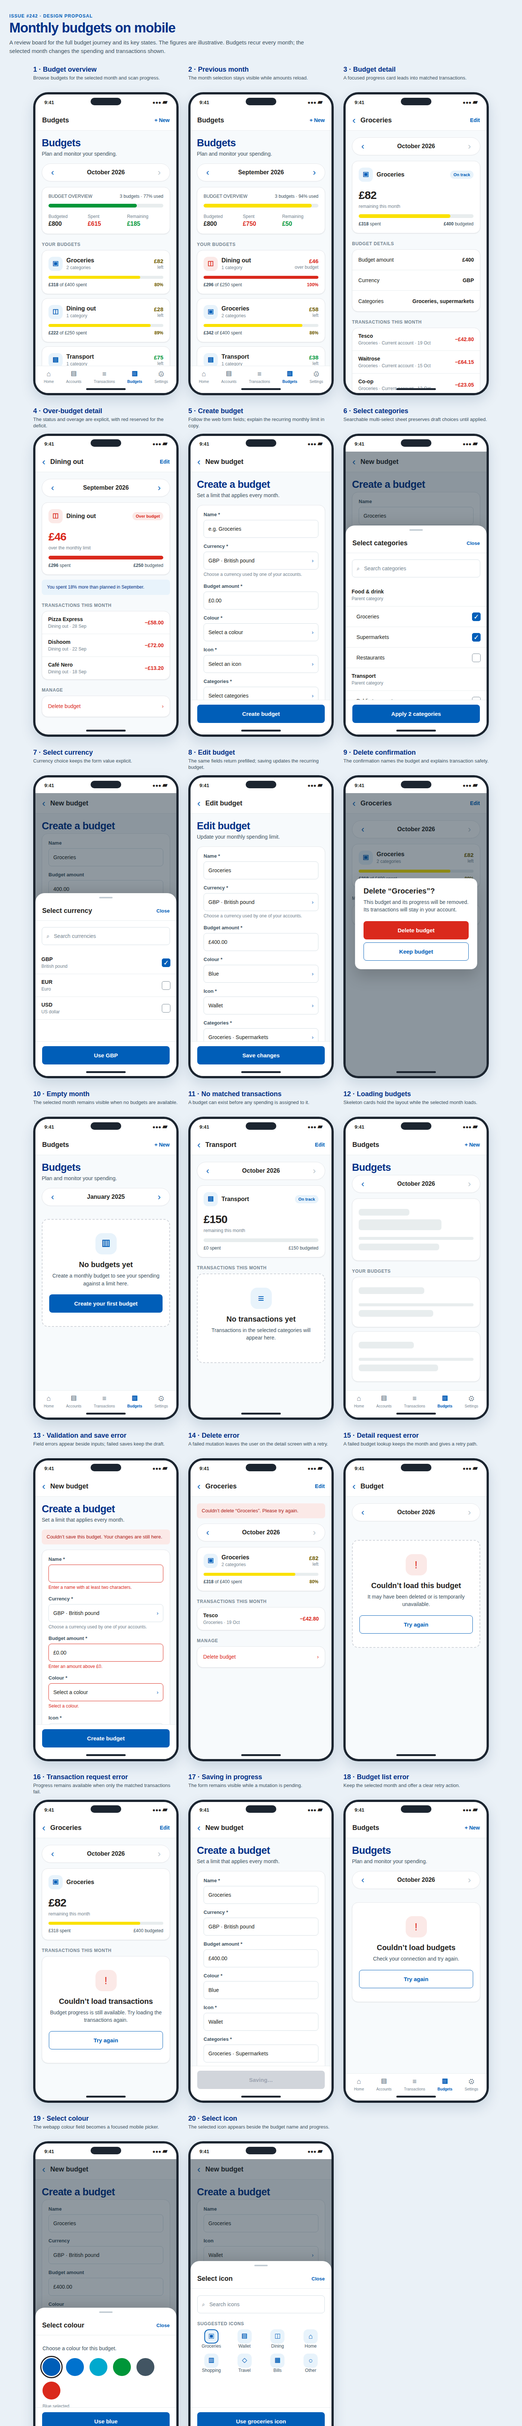
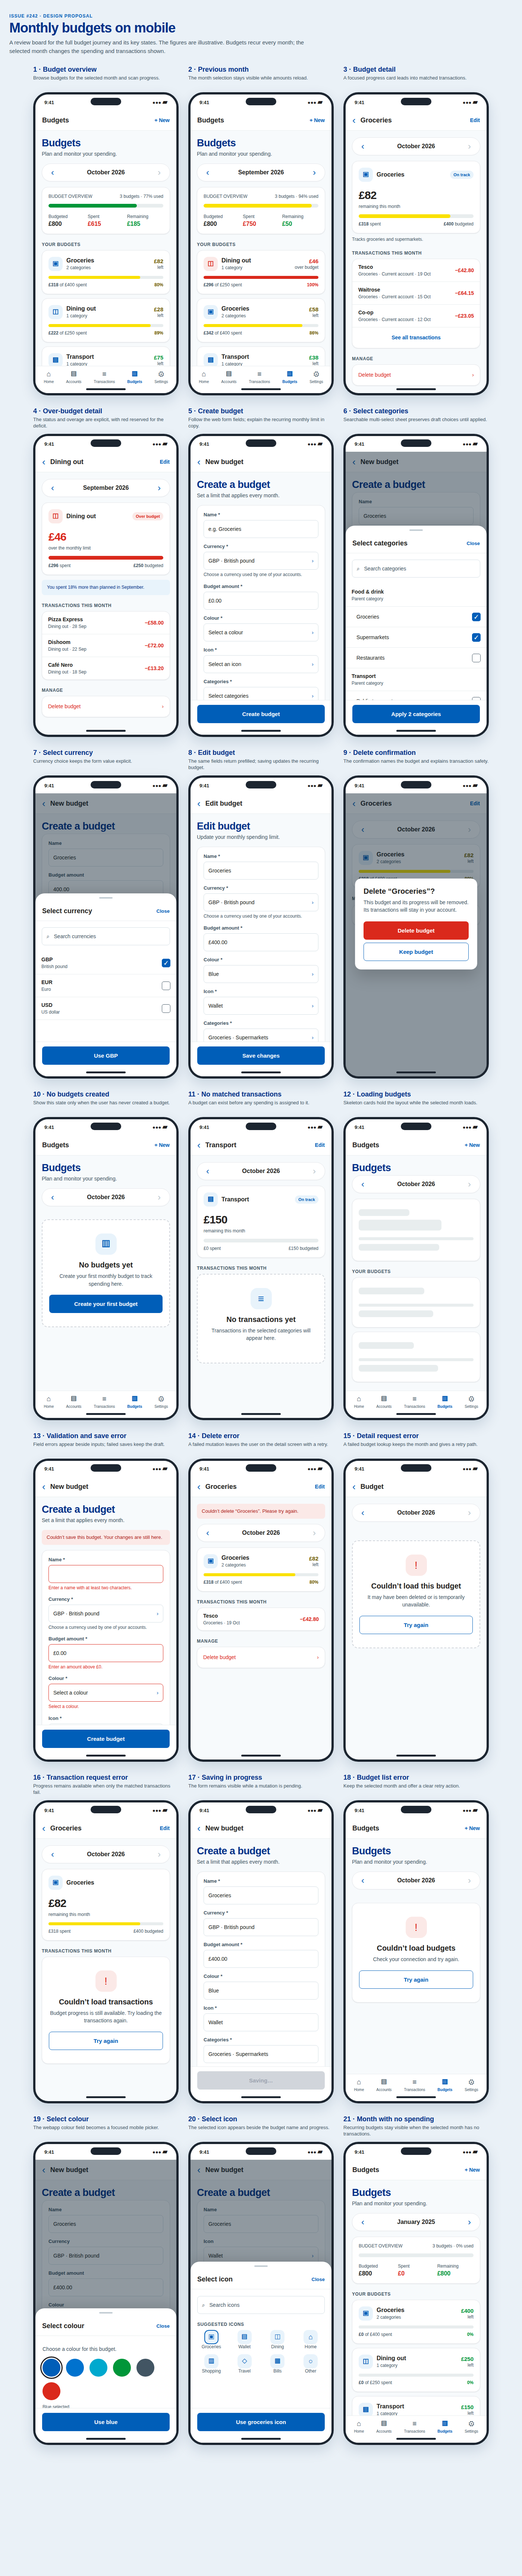
docs: address mobile budget mock review feedback

diff --git a/docs/designs/issue-242-mobile-budgets.md b/docs/designs/issue-242-mobile-budgets.md
@@ -1,6 +1,6 @@
 # Mobile budgets · issue #242
 
-[Open the visual board](./issue-242-mobile-budgets.html) or [PNG preview](./issue-242-mobile-budgets.png). This is a UI proposal for review before changing the mobile implementation. Amounts and merchants are illustrative.
+[Open the visual board](./issue-242-mobile-budgets.png). This is a UI proposal for review before changing the mobile implementation. Amounts and merchants are illustrative.
 
 ## Screen inventory
 
@@ -11,9 +11,10 @@
 | 5–7 | Create form, category sheet, currency sheet | Use the webapp's form fields: name, currency, budget amount, colour, icon, and categories. Validate name, positive amount, currency, colour, and at least one category. Category selection is searchable and applies draft choices explicitly. |
 | 8 | Edit form | Prefill the same fields and preserve changes if saving fails. |
 | 9 | Delete confirmation | Name the budget and explain that transactions remain. |
-| 10–11 | Empty month and empty transactions | Provide a direct creation action on the list; keep the detail context when there is no matched spending. |
+| 10–11 | No budgets created and no matched transactions | Offer budget creation only when the user has no budgets. Keep the detail context when a budget has no matched transactions. |
 | 12–18 | Loading, API, validation, save, and delete states | Use skeletons, field-level errors, retry, and retained data. Disable duplicate mutations while pending. List, detail, and transaction failures have distinct presentations. |
 | 19–20 | Colour and icon pickers | Give each webapp field a focused mobile selection sheet. |
+| 21 | Month with no spending | Keep recurring budgets visible with £0 spent and full amounts remaining. |
 
 Budgets recur every calendar month, so the form has **no period field**. Its introduction explains that the limit applies each month. The selected month is a viewing filter on the overview and detail pages, not a property of the saved budget. This matches the webapp and the current `CreateBudgetDto`: list, detail, and transaction endpoints accept a one-based `month` and `year` query. Currency choices follow the webapp's account-currency list; a default currency can be preselected.
 
@@ -26,7 +27,7 @@ Budgets recur every calendar month, so the form has **no period field**. Its int
 - [Starling category selection](https://mobbin.com/screens/d15de7fa-c3cf-41d1-acc7-fc8afac5b200): searchable multi-select category list with a clear apply action.
 - [Monarch delete confirmation](https://mobbin.com/screens/dfc89d06-87ba-448f-bb2b-bd5f682a416d): concise consequence copy and separate cancel and destructive actions.
 
-The mocks are original layouts using Guallet's colours, card treatment, UK English, and tabular money figures; no Mobbin images are embedded.
+The mocks are original layouts using Guallet's colours, card treatment, UK English, and tabular money figures; no Mobbin images are embedded. The PNG shows each phone at its initial scroll position; detail content is arranged so its transactions and management action remain visible.
 
 ## Implementation notes
 
